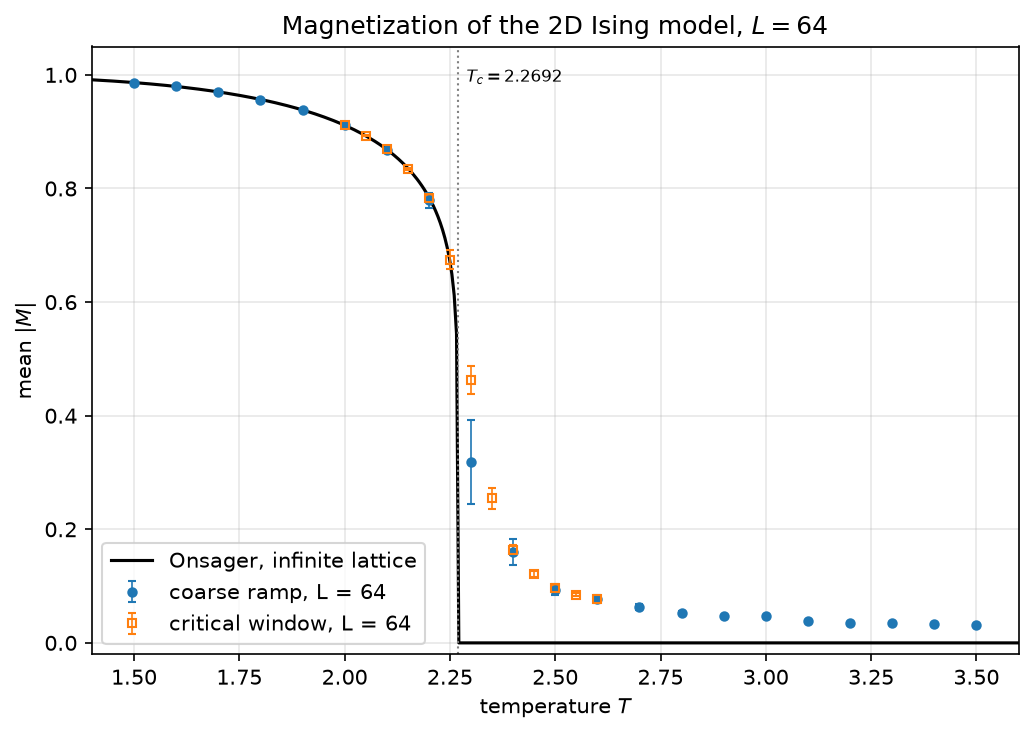
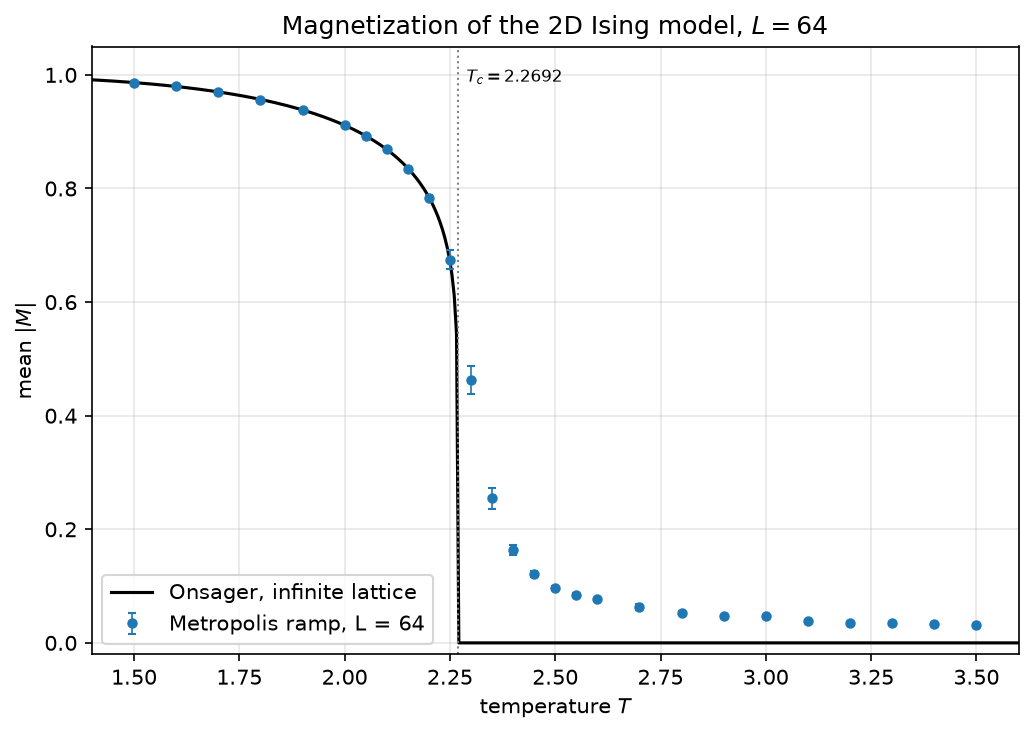
feat(week3): splice L = 64 magnetization from coarse and window ramps
Use the coarse ramp outside 2.0 <= T <= 2.6 and the high-statistics
window ramp inside that range (including the overlap temperatures), so
the magnetization figure keeps the full 1.5-3.5 range while resolving
the transition.  Susceptibility still uses both window ramps.

diff --git a/week3/plot_thermo.py b/week3/plot_thermo.py
@@ -15,8 +15,11 @@ The ``artifacts/`` folder holds two kinds of temperature ramp:
 This script draws two figures:
 
 ``evidence/magnetization.png``
-    Mean ``|M|`` against temperature for ``L = 64`` from both ramps, together
-    with Onsager's exact spontaneous magnetization of the *infinite* lattice,
+    A single mean ``|M|`` curve for ``L = 64``, spliced from the two ramps:
+    the coarse ramp outside the critical window and the window ramp inside
+    ``2.0 <= T <= 2.6`` (its points replace the coarse ones on the overlap).
+    Onsager's exact spontaneous magnetization of the *infinite* lattice is
+    drawn alongside it,
 
         M(T) = (1 - sinh(2/T)^-4)^(1/8)   for T < T_c,  0 otherwise.
 
@@ -156,8 +159,37 @@ def susceptibility(magnetization, lattice, temperature):
     return chi, float(np.sqrt(variance)), length, n_blocks, tau
 
 
+def spliced_l64():
+    """One L = 64 magnetization curve from the coarse and window ramps.
+
+    The coarse ramp supplies the full range, but the window ramp replaces it
+    on ``2.0 <= T <= 2.6`` where its many more sweeps resolve the transition.
+    The two grids overlap at the window edges, so those temperatures come
+    only from the window run.
+    """
+    pieces = []
+    for run, use in (
+        ("coarse-l64", lambda t: (t < 2.0) | (t > 2.6)),
+        ("window-l64", lambda t: (t >= 2.0) & (t <= 2.6)),
+    ):
+        temperatures, magnetizations = load_series(run)
+        for temperature in np.unique(temperatures):
+            if not use(temperature):
+                continue
+            value, error, _ = mean_abs_magnetization(
+                magnetizations[temperatures == temperature]
+            )
+            pieces.append((temperature, value, error))
+    pieces.sort()
+    return (
+        np.array([p[0] for p in pieces]),
+        np.array([p[1] for p in pieces]),
+        np.array([p[2] for p in pieces]),
+    )
+
+
 def plot_magnetization(ax):
-    """Mean |M| for L = 64 from both ramps, plus Onsager's curve."""
+    """Spliced mean |M| for L = 64, plus Onsager's infinite-lattice curve."""
     t_line = np.linspace(1.4, 3.6, 400)
     ax.plot(
         t_line,
@@ -167,31 +199,18 @@ def plot_magnetization(ax):
         label="Onsager, infinite lattice",
     )
 
-    for run, marker, color, face, label in (
-        ("coarse-l64", "o", "C0", "C0", "coarse ramp, L = 64"),
-        ("window-l64", "s", "C1", "none", "critical window, L = 64"),
-    ):
-        temperatures, magnetizations = load_series(run)
-        mean_abs, sem_abs = [], []
-        for temperature in np.unique(temperatures):
-            value, error, _ = mean_abs_magnetization(
-                magnetizations[temperatures == temperature]
-            )
-            mean_abs.append(value)
-            sem_abs.append(error)
-        ax.errorbar(
-            np.unique(temperatures),
-            mean_abs,
-            yerr=sem_abs,
-            fmt=marker,
-            markersize=4,
-            color=color,
-            markerfacecolor=face,
-            markeredgecolor=color,
-            capsize=2,
-            elinewidth=0.8,
-            label=label,
-        )
+    temperatures, mean_abs, sem_abs = spliced_l64()
+    ax.errorbar(
+        temperatures,
+        mean_abs,
+        yerr=sem_abs,
+        fmt="o",
+        markersize=4,
+        color="C0",
+        capsize=2,
+        elinewidth=0.8,
+        label="Metropolis ramp, L = 64",
+    )
 
     ax.axvline(TC, color="gray", linestyle=":", linewidth=1.0)
     ax.text(TC + 0.02, 1.01, rf"$T_c = {TC:.4f}$", fontsize=8, va="top")
